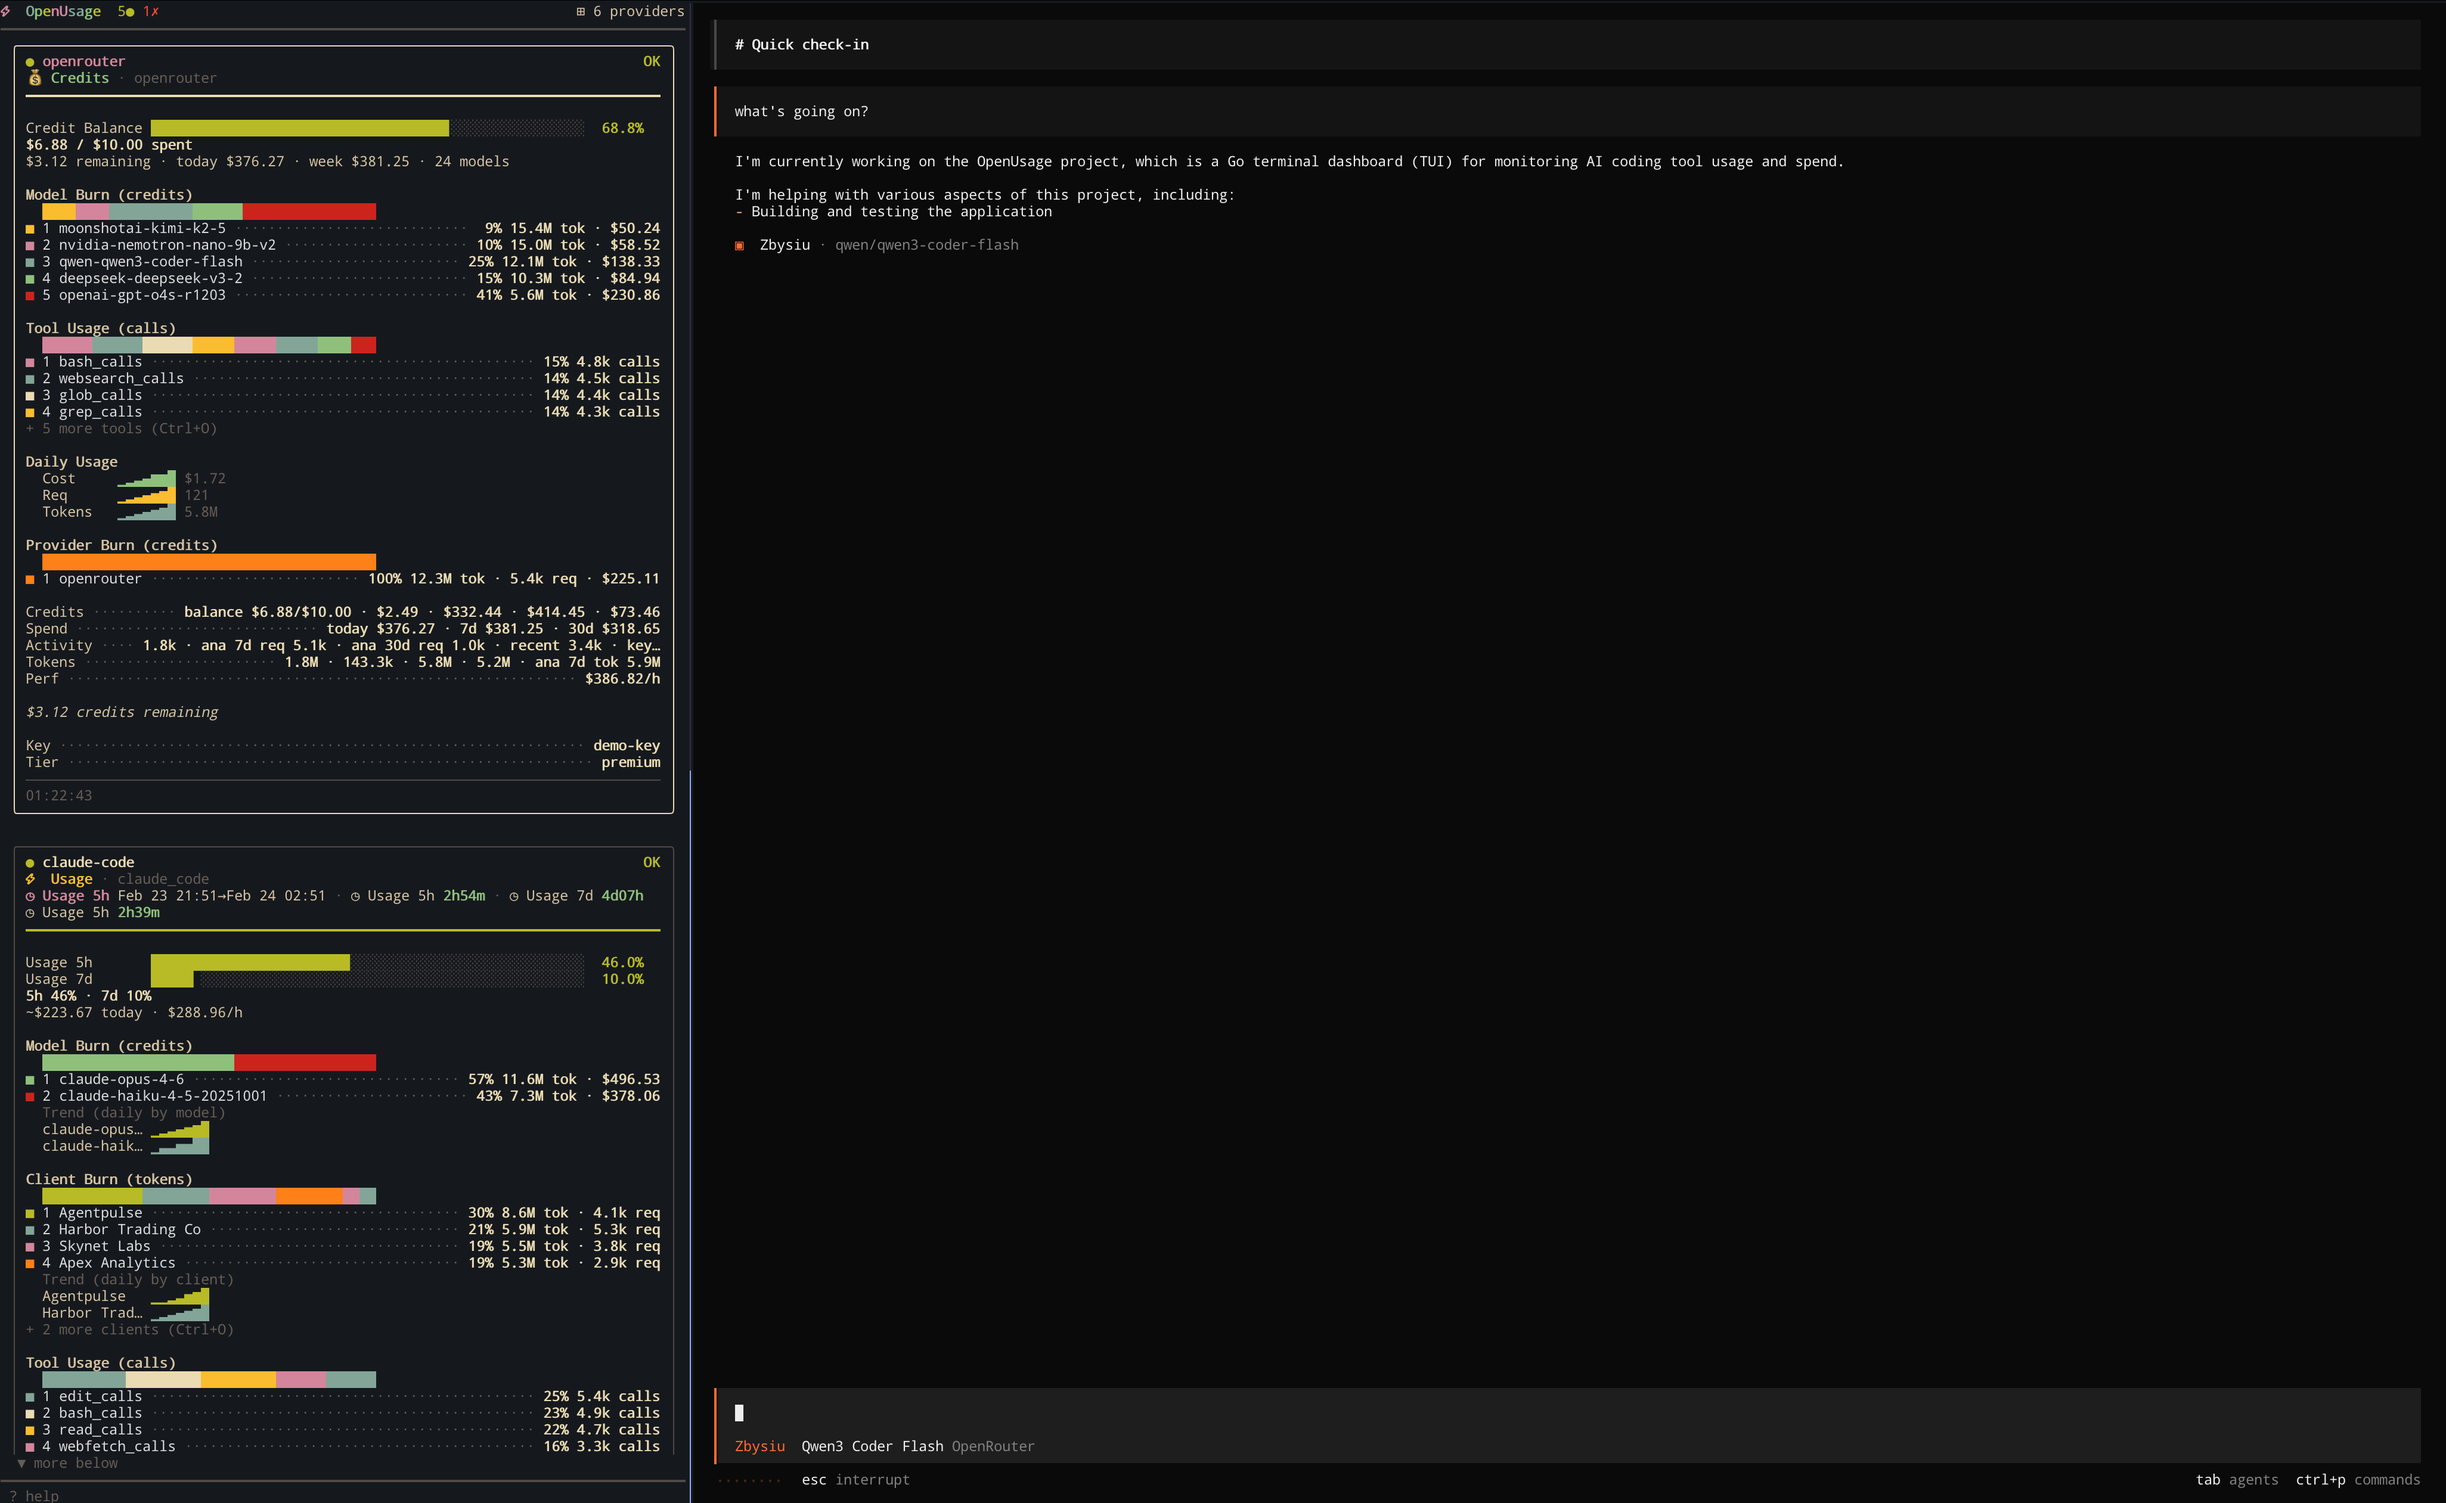
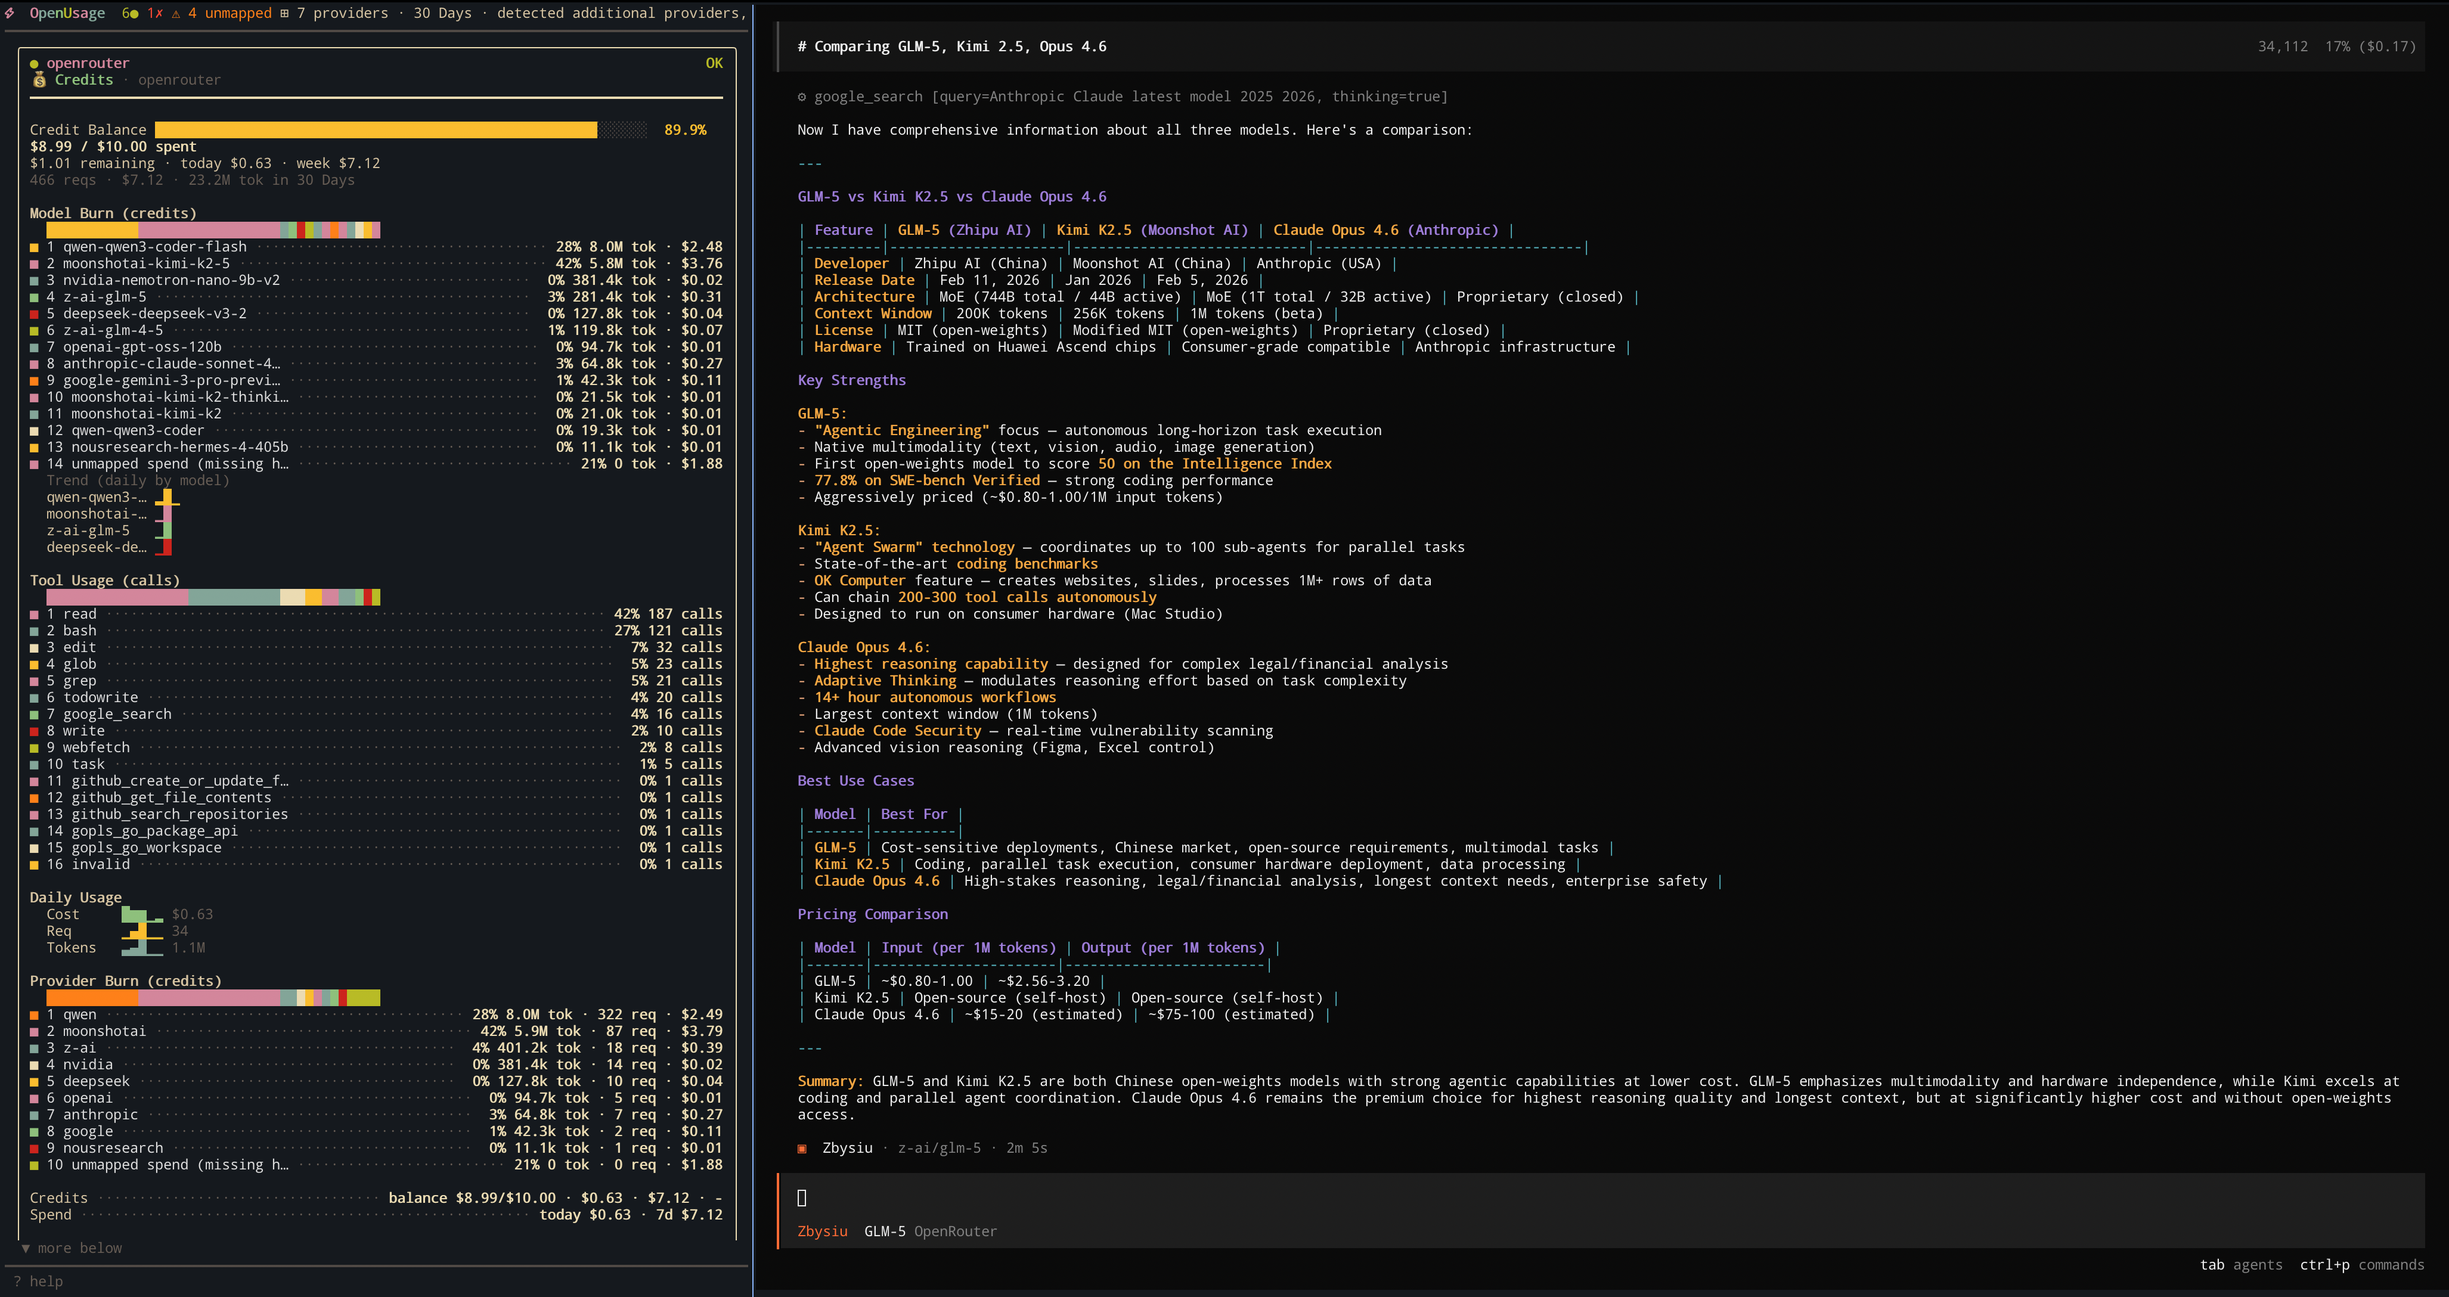
docs: overhaul README with features, providers, and usage details (#22)
- Add navigation header and improved hero section
- distinct sections for Features (Auto-detection, Dashboard, Analytics, Themes)
- detailed Supported Providers tables for Agents and API platforms
- clear Configuration options and keybindings tables
- updated Telemetry & Daemon usage instructions
- update sidebyside asset to reflect current UI

diff --git a/README.md b/README.md
@@ -1,18 +1,32 @@
 <p align="center">
-  <img src="./assets/logo.gif" alt="logo">
+  <img src="./assets/logo.gif" alt="OpenUsage logo">
 </p>
 
+<p align="center"><strong>The coding agent usage dashboard you've been looking for.</strong></p>
 
-<p align="center">The coding agent usage dashboard you’ve been looking for.</p>
+<p align="center">
+  <a href="#install">Install</a> &middot;
+  <a href="#features">Features</a> &middot;
+  <a href="#supported-providers">Providers</a> &middot;
+  <a href="#configuration">Config</a> &middot;
+  <a href="#telemetry--daemon">Daemon</a> &middot;
+  <a href="#keybindings">Keybindings</a> &middot;
+  <a href="#development">Development</a>
+</p>
 
+---
 
-OpenUsage auto-detects local tools/API keys and shows live quota and cost snapshots in your terminal.
+OpenUsage auto-detects AI coding tools and API keys on your workstation and shows live quota, usage, and cost data in your terminal. Zero config required — just run `openusage`.
 
-![OpenUsage dashboard screenshot](./assets/dashboard.png)
+![OpenUsage dashboard](./assets/dashboard.png)
 
-Or side by side with your agent
+Run it side-by-side with your coding agent:
 
-![OpenUsage side by side](./assets/sidebyside.png)
+<p align="center">
+  <img src="./assets/sidebyside.png" alt="OpenUsage side by side">
+  <br>
+  <em>OpenUsage running alongside OpenCode monitoring live OpenRouter usage.</em>
+</p>
 
 ## Install
 
@@ -48,11 +62,122 @@ Building from source requires CGO (`CGO_ENABLED=1`) because the Cursor provider 
 openusage
 ```
 
-Auto-detection is enabled by default and picks up local tools plus common API key env vars.
+Auto-detection is enabled by default and picks up local tools plus common API key env vars. No config needed.
 
-## Config
+## Features
 
-You don't need to create config yourself, everything gets automatically detected. You can always overwrite/edit defaults.
+### Auto-detection
+
+OpenUsage scans your system for installed AI tools and environment variables — no manual setup required:
+
+- **Local tools**: Cursor, Claude Code, Codex, Copilot (`gh` CLI), Gemini CLI, Ollama, Aider
+- **API keys**: `OPENAI_API_KEY`, `ANTHROPIC_API_KEY`, `OPENROUTER_API_KEY`, `GROQ_API_KEY`, `MISTRAL_API_KEY`, `DEEPSEEK_API_KEY`, `XAI_API_KEY`, `GEMINI_API_KEY`, `ALIBABA_CLOUD_API_KEY`, `OLLAMA_API_KEY`, `OPENCODE_API_KEY`
+
+Auto-detected accounts merge with manually configured ones; manual config takes precedence on conflicts.
+
+### Dashboard view
+
+The primary screen shows a master-detail layout: a tile grid of all your providers on the left, with a scrollable detail panel on the right for the selected provider.
+
+Each provider tile shows:
+- Status badge (OK / WARN / LIMIT / AUTH / ERR)
+- Key metrics at a glance (spend, quota, tokens)
+- Color-coded gauge bar (green → yellow → red as you approach limits)
+
+The detail panel shows full breakdowns: per-model usage, billing info, daily trends, and raw metrics.
+
+### Analytics view (experimental)
+
+Switch to the analytics screen with `Tab` for spend analysis across all providers:
+- Per-provider and per-model cost breakdowns
+- Budget tracking with gauge bars
+- Token activity charts
+- Sortable by cost, name, or token count
+
+Enable in config: `"experimental": {"analytics": true}`
+
+### Themes
+
+Cycle through 7 built-in themes with `t`:
+
+| Theme | |
+|---|---|
+| Catppuccin Mocha | Purple accents |
+| Dracula | Cyan/pink accents |
+| Nord | Arctic blue/green |
+| Tokyo Night | Purple night palette |
+| Gruvbox (default) | Warm retro tones |
+| Synthwave '84 | Neon 80s vibes |
+| One Dark | VS Code-inspired |
+
+### Time windows
+
+Cycle with `w` to filter data by time range: **1d**, **3d**, **7d**, or **30d**.
+
+### Settings modal
+
+Press `,` or `Shift+S` to open the in-app settings modal with tabs for:
+
+1. **Theme** — pick from 7 themes
+2. **UI** — warn/crit thresholds, refresh interval
+3. **Integrations** — install/uninstall hooks for Claude Code, Cursor, etc.
+4. **Daemon** — install/uninstall the background telemetry service
+5. **Accounts** — add/edit accounts with API key validation
+6. **Provider order** — reorder providers with `Shift+J/K`
+
+### Provider reordering
+
+Reorder providers directly from the dashboard with `Shift+J` / `Shift+K`. Your order is persisted in the config file.
+
+## Supported providers
+
+OpenUsage ships with 16 provider integrations covering coding agents, API platforms, and local tools.
+
+### Coding agents & IDEs
+
+| Provider | Detection | What it tracks |
+|---|---|---|
+| **Claude Code** | `claude` binary + `~/.claude` | Daily activity, per-model tokens, 5-hour billing blocks, burn rate, cost estimation |
+| **Cursor** | `cursor` binary + local SQLite DBs | Plan spend & limits, per-model aggregation, Composer sessions, AI code scoring |
+| **GitHub Copilot** | `gh` CLI + Copilot extension | Chat & completions quota, org billing, org metrics, session tracking |
+| **Codex CLI** | `codex` binary + `~/.codex` | Session tokens, per-model and per-client breakdown, credits, rate limits |
+| **Gemini CLI** | `gemini` binary + `~/.gemini` | OAuth status, conversation count, per-model tokens, quota API |
+| **OpenCode** | `OPENCODE_API_KEY` / `ZEN_API_KEY` | Credits, activity, generation stats (OpenRouter-compatible) |
+| **Ollama** | `OLLAMA_HOST` / binary | Local server models, per-model usage, optional cloud billing |
+
+#### Claude Code
+
+![Claude Code provider](./assets/claudecode.png)
+
+#### Cursor
+
+![Cursor provider](./assets/cursor.png)
+
+#### GitHub Copilot
+
+![Copilot provider](./assets/copilot.png)
+
+#### OpenRouter
+
+![OpenRouter provider](./assets/openrouter.png)
+
+### API platforms
+
+| Provider | Detection | What it tracks |
+|---|---|---|
+| **OpenAI** | `OPENAI_API_KEY` | Rate limits via header probing |
+| **Anthropic** | `ANTHROPIC_API_KEY` | Rate limits via header probing |
+| **OpenRouter** | `OPENROUTER_API_KEY` | Credits, activity, generation stats, per-model breakdown |
+| **Groq** | `GROQ_API_KEY` | Rate limits, daily usage windows |
+| **Mistral AI** | `MISTRAL_API_KEY` | Subscription, usage endpoints |
+| **DeepSeek** | `DEEPSEEK_API_KEY` | Rate limits, account balance |
+| **xAI (Grok)** | `XAI_API_KEY` | Rate limits, API key info |
+| **Google Gemini API** | `GEMINI_API_KEY` / `GOOGLE_API_KEY` | Rate limits, model limits |
+| **Alibaba Cloud** | `ALIBABA_CLOUD_API_KEY` | Quotas, credits, daily usage, per-model tracking |
+
+## Configuration
+
+You don't need a config file — auto-detection handles everything. You can always override or extend the defaults.
 
 Config path:
 
@@ -82,32 +207,23 @@ Minimal example:
 
 Full config example: [`configs/example_settings.json`](configs/example_settings.json)
 
-Configured accounts are merged with auto-detected accounts, and configured ones win on conflicts.
+### Config options
 
-## Supported Providers
+| Key | Description | Default |
+|---|---|---|
+| `auto_detect` | Scan for installed tools and API keys | `true` |
+| `ui.refresh_interval_seconds` | Poll interval in seconds | `30` |
+| `ui.warn_threshold` | Yellow gauge at this % remaining | `0.20` |
+| `ui.crit_threshold` | Red gauge at this % remaining | `0.05` |
+| `theme` | Active theme name | `"Gruvbox"` |
+| `data.time_window` | Default time window (`1d`, `3d`, `7d`, `30d`) | `"30d"` |
+| `data.retention_days` | How long to keep telemetry data | `30` |
+| `experimental.analytics` | Enable the analytics screen | `false` |
+| `model_normalization.enabled` | Group variant model names into lineages | `true` |
 
-| Provider | Detection | Tested |
-|---|---|:---:|
-| Claude Code CLI | `claude` binary + `~/.claude` | ✅ |
-| Cursor IDE | `cursor` binary + local SQLite DBs | ✅ |
-| GitHub Copilot | `gh` CLI + Copilot extension | ✅ |
-| Gemini CLI | `gemini` binary + `~/.gemini` | ✅ |
-| OpenRouter | `OPENROUTER_API_KEY` | ✅ |
-| OpenAI Codex CLI | `codex` binary + `~/.codex` | ✅ |
-| OpenAI | `OPENAI_API_KEY` | |
-| Anthropic | `ANTHROPIC_API_KEY` | |
-| Groq | `GROQ_API_KEY` | |
-| Mistral AI | `MISTRAL_API_KEY` | |
-| DeepSeek | `DEEPSEEK_API_KEY` | |
-| xAI (Grok) | `XAI_API_KEY` | |
-| OpenCode Zen | `ZEN_API_KEY` / `OPENCODE_API_KEY` | |
-| Google Gemini API | `GEMINI_API_KEY` / `GOOGLE_API_KEY` | |
-| Alibaba Cloud | `ALIBABA_CLOUD_API_KEY` | |
-| Ollama | `OLLAMA_HOST` / `OLLAMA_API_KEY` | |
+## Telemetry & daemon
 
-## Telemetry & Daemon
-
-OpenUsage includes a background daemon for continuous monitoring and integration with other tools via hooks.
+OpenUsage includes a background daemon for continuous data collection, even when the dashboard isn't open. The TUI connects to the daemon over a unix socket when available.
 
 ### Start the daemon
 
@@ -115,46 +231,92 @@ OpenUsage includes a background daemon for continuous monitoring and integration
 # Run in foreground
 openusage telemetry daemon
 
-# Install as system service
+# Install as system service (launchd / systemd)
 openusage telemetry daemon install
+
+# Check status
+openusage telemetry daemon status
+
+# Uninstall
+openusage telemetry daemon uninstall
 ```
 
 ### Ingest events via hooks
 
-You can pipe JSON payloads to the daemon for supported providers (e.g., `opencode`, `codex`, `claude_code`).
+Pipe JSON payloads to the daemon for supported providers:
 
 ```bash
-# Example: Send a hook event
 cat event.json | openusage telemetry hook opencode
 ```
 
+Supported hook sources: `opencode`, `codex`, `claude_code`.
+
+### Integrations
+
+Install hooks and plugins for deeper tool integration:
+
+```bash
+openusage integrations list [--all]       # List integration statuses
+openusage integrations install <id>       # Install hook/plugin
+openusage integrations uninstall <id>     # Remove
+openusage integrations upgrade --all      # Upgrade all installed
+```
+
+Available integrations: Claude Code hooks, Cursor rules, Copilot, Codex CLI, Gemini CLI.
+
 ## Keybindings
 
-- `Tab` / `Shift+Tab`: switch views
-- `r`: refresh
-- `/`: filter
-- `t`: cycle theme
-- `?`: help
-- `q`: quit
+### Navigation
+
+| Key | Action |
+|---|---|
+| `Tab` / `Shift+Tab` | Switch between Dashboard and Analytics |
+| `j` / `k` or `Up` / `Down` | Move cursor |
+| `h` / `l` or `Left` / `Right` | Navigate panels |
+| `Enter` | Open detail view |
+| `Esc` | Back |
+| `PgUp` / `PgDn` | Scroll selected tile |
+| `Ctrl+U` / `Ctrl+D` | Fast scroll |
+| `[ ]` | Switch detail tabs |
+
+### Actions
+
+| Key | Action |
+|---|---|
+| `r` | Refresh all providers |
+| `/` | Filter providers |
+| `t` | Cycle theme |
+| `w` | Cycle time window (1d / 3d / 7d / 30d) |
+| `,` or `Shift+S` | Open settings |
+| `Ctrl+O` | Expand/collapse usage breakdowns |
+| `Shift+J` / `Shift+K` | Reorder providers |
+| `?` | Help overlay |
+| `q` | Quit |
 
 ## Development
 
 ```bash
-make deps
-make fmt
-make vet
-make lint
-make test
-make run
-make build
+make build          # Build binary to ./bin/openusage
+make test           # Run all tests with -race and coverage
+make test-verbose   # Verbose test output
+make lint           # golangci-lint (skips gracefully if not installed)
+make fmt            # go fmt ./...
+make vet            # go vet ./...
+make run            # go run cmd/openusage/main.go
 ```
 
-### Run Demo
+### Run demo
 
-To preview the dashboard with simulated data:
+Preview the dashboard with simulated data (no API keys needed):
 
 ```bash
 make demo
+```
+
+### Debug mode
+
+```bash
+OPENUSAGE_DEBUG=1 openusage
 ```
 
 ## License
